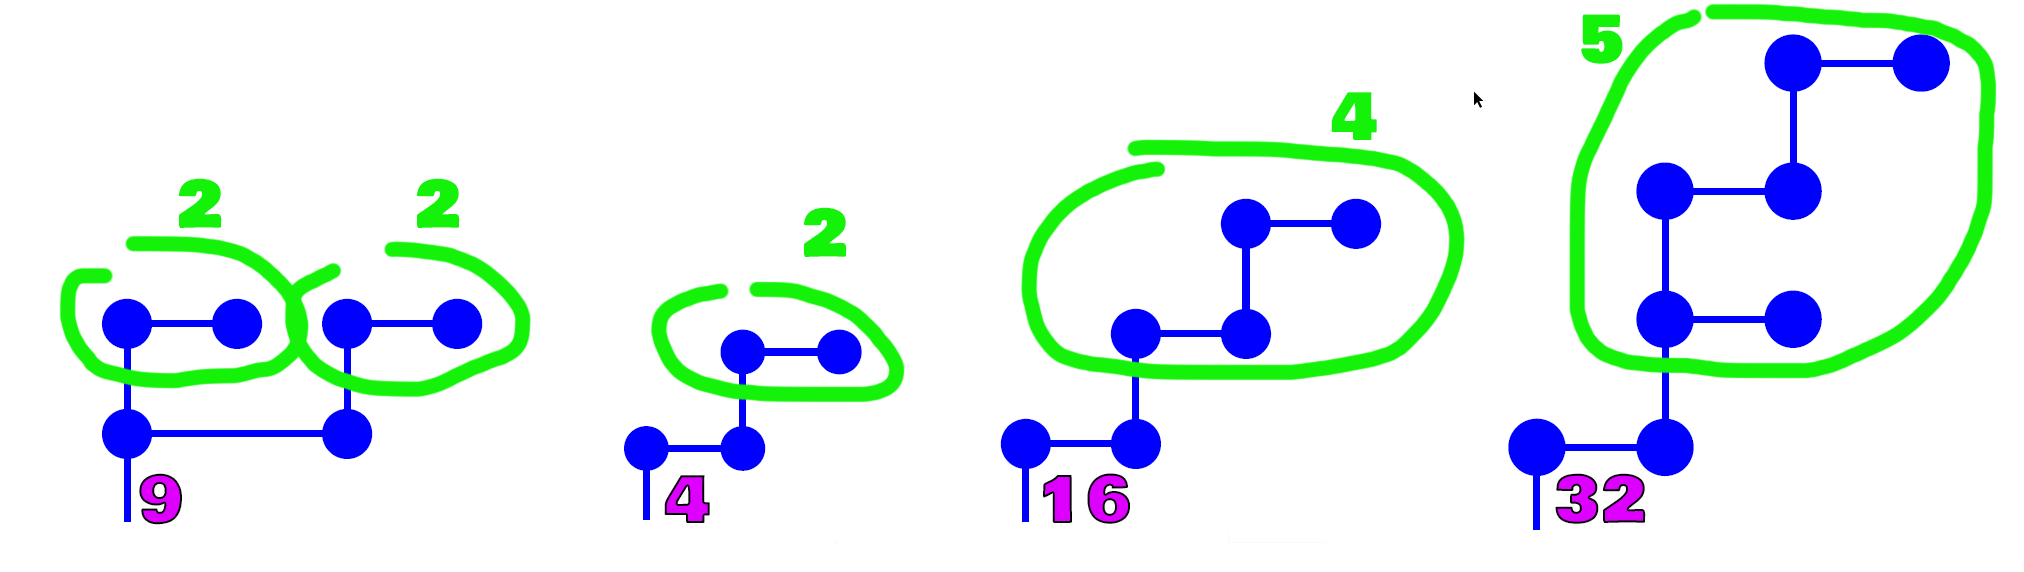
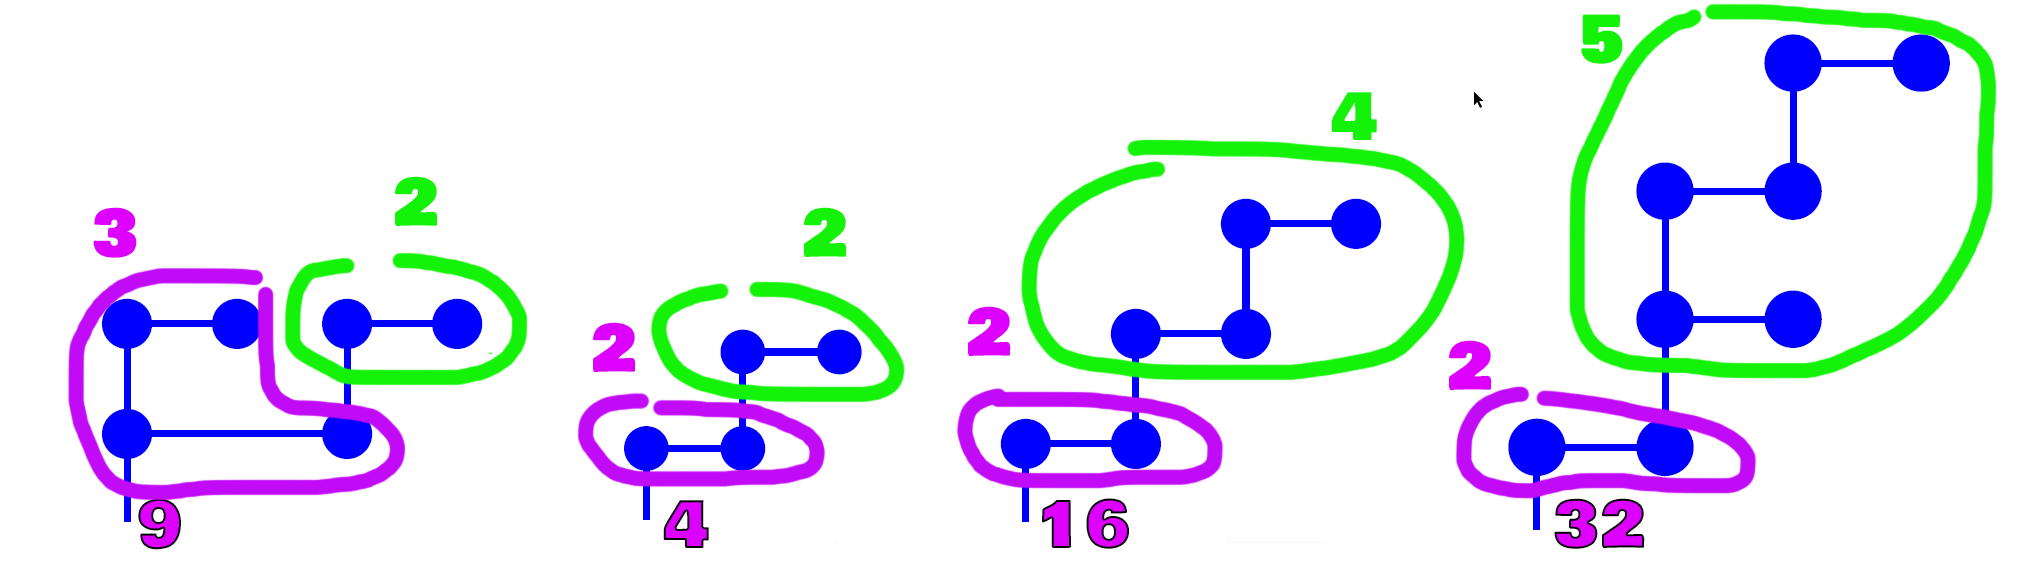
Progress on 40

diff --git a/wiki/P40.md b/wiki/P40.md
@@ -5,11 +5,11 @@ Dans le jardin des concepteurs du puzzle, il y a des arbres de formes étranges.
 
 ## Analyse
 
-La manière dont sont décomposés les nombres ici est déroutante, car le nombre de noeuds est toujours conséquent, même lorsque l'on a à faire à des nombres premiers comme 2011 et 2017. Par contre, ces deux derniers sont les seuls qui ne commencent pas avec une branche horizontale sur leur tronc rouge. Même si ce fait est peut être le fruit du hasard, il incite néanmoins à ne pas lâcher la piste de la décomposition en facteurs premiers tout de suite.
+La manière dont sont décomposés les nombres est déroutante, car le nombre de noeuds est toujours conséquent, même lorsque l'on a à faire à des nombres premiers comme 2011 et 2017. Par contre, ces deux derniers sont les seuls qui ne commencent pas avec une branche horizontale sur leur tronc rouge. Même si ce fait est peut être le fruit du hasard, il incite néanmoins à ne pas lâcher la piste de la décomposition en facteurs premiers tout de suite.
 
 La question est alors, comment décomposer un facteur premier de manière unique alors qu'il n'est le produit d'aucun nombre autre que lui-même ? Ce qui m'a personnellement mis sur la voie, c'est la constation que 2017 (un nombre premier donc) est pratiquement identique à 2016, il est juste surélevé et dispose d'une branche horizontale supplémentaire.
 
-Je suis donc parti de l'hypothèse suivante, si un nombre premier, on retranche 1 et on continue avec ce qu'il reste. Sinon, on regarde les termes qui le compose. Faisons donc quelques tests:
+Je suis donc parti de l'hypothèse suivante, si un nombre premier, on retranche 1 et on continue avec ce qu'il reste. Sinon, on regarde les termes qui le composent. Faisons donc quelques tests:
 
 * 2012 = 2^2 x 503
 * 2013 = 3 x 11 x 61
@@ -29,10 +29,9 @@ L'image ci-dessous applique le principe suivant:
 
 ![2011](40-2011.png)
 
-Le point qu'il reste à élucider concerne les groupes de valeurs identiques lors de la décomposition, tels que 32=2^5 ou 9=3^2. L'image ci-dessous reprend les différentes puissances présentes dans les exemples. Pour le 4, 16 et 32, cela donne l'impression que l'exposant s'enracine dans la boule de droite. Ce n'est par contre pas suffisant pour expliquer la forme du 9=3x3.
+Le point qu'il reste à élucider concerne les groupes de valeurs identiques lors de la décomposition, tels que 32=2^5 ou 9=3^2. L'image ci-dessous reprend les différentes puissances présentes dans les exemples. Nous pouvons remarquer que l'écriture d'un tel groupe se réalise en écrivant le chiffre de la base, suivi de l'exposant qui s'enracine dans le noeud le plus en bas à droite.
 
 ![Power](40-Power.png)
 
-Une idée quelqu'un ?
+## Solution
 
-A suivre
